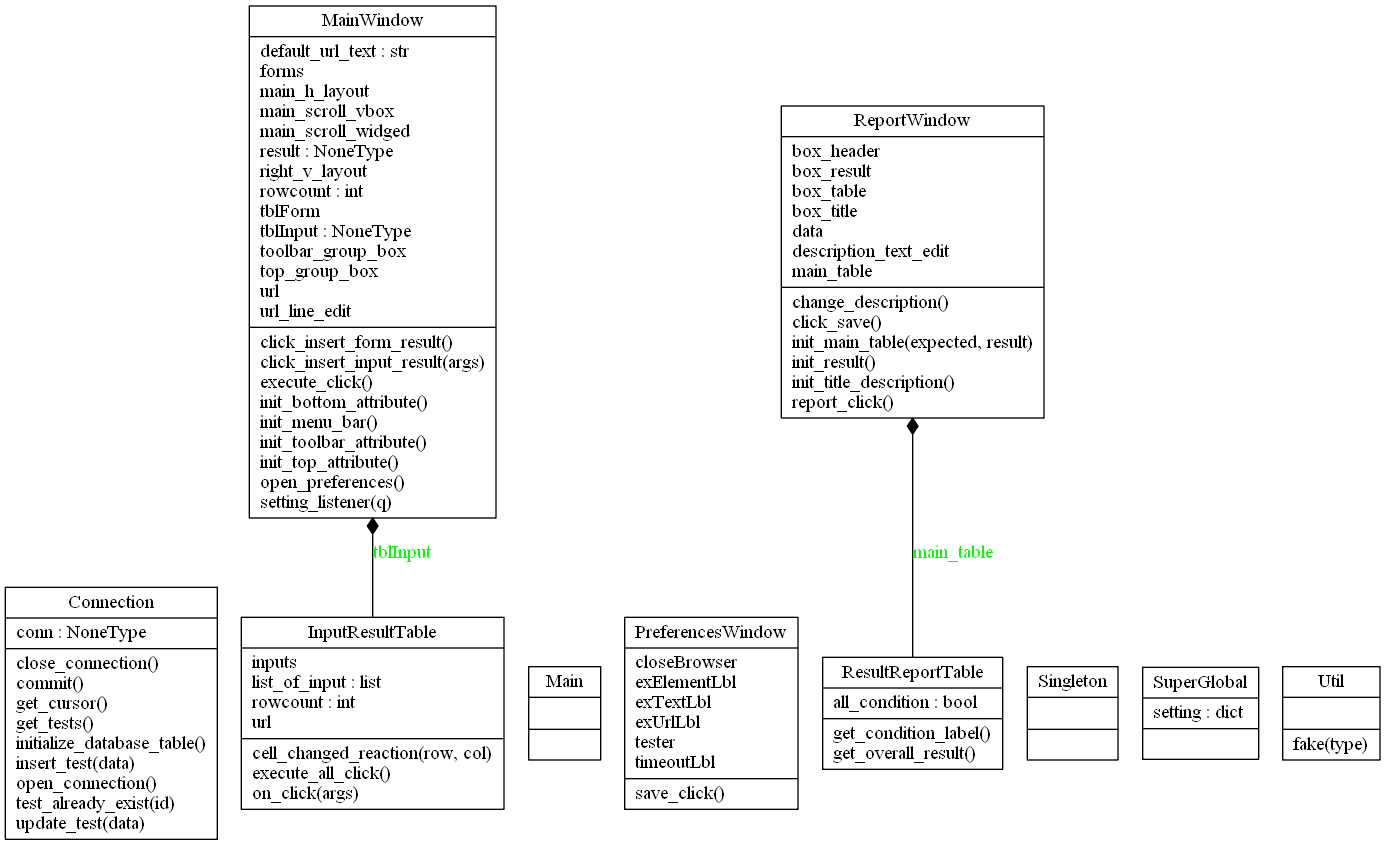
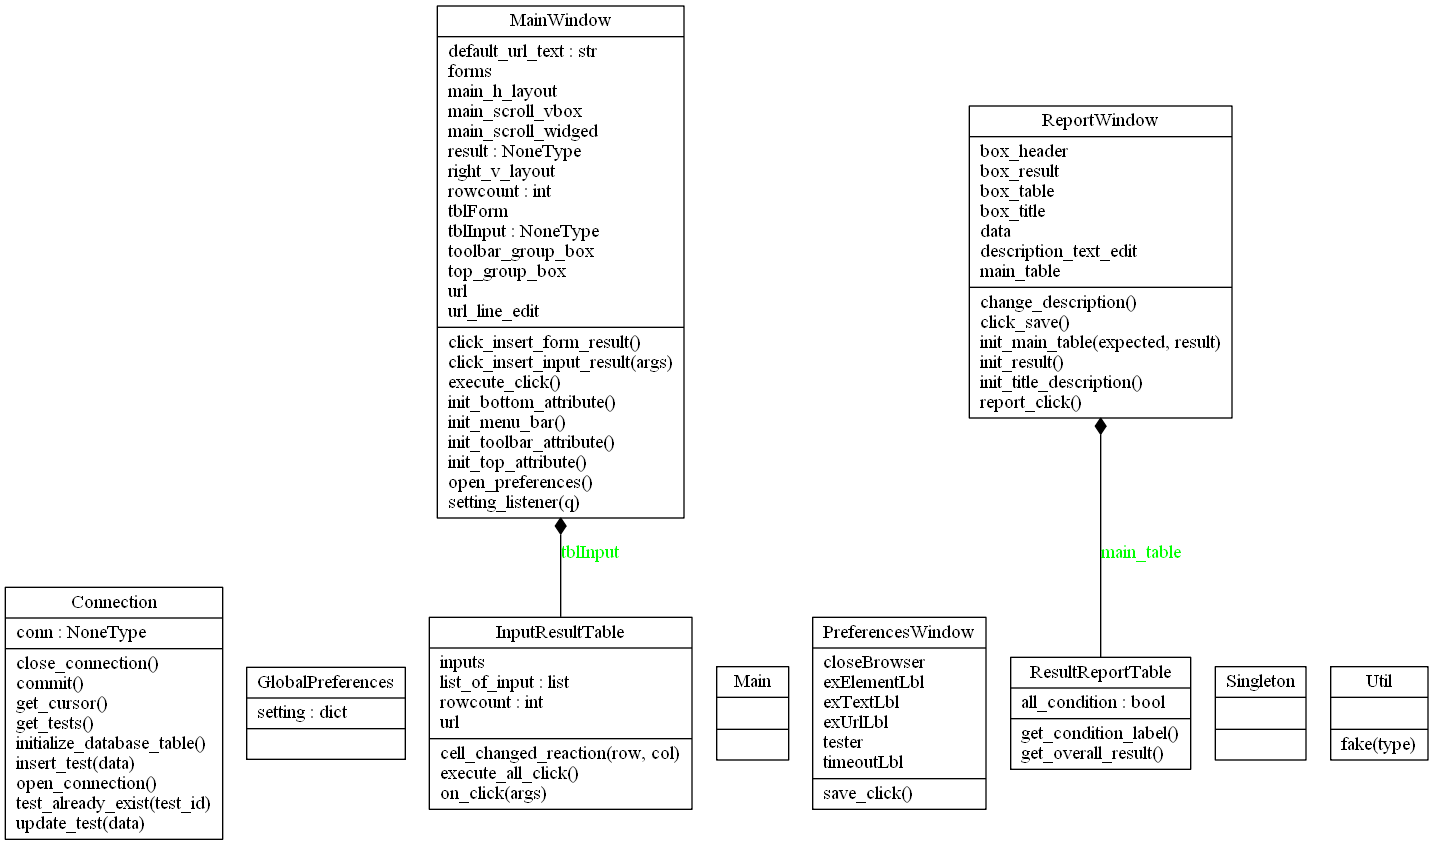
browser reopen if already closed when test executed again

diff --git a/output/output.html b/output/output.html
@@ -65,7 +65,7 @@ center{
     border-collapse: collapse;
 }
 
-.border-table tr,.border-table th{
+.border-table tr{
     padding: 5px 0;
 }
 
@@ -115,11 +115,11 @@ center{
     <table>
         <tr>
             <td>TEST ID</td>
-            <td>1b25cee0-3d12-4f32-9488-b8001738be4d</td>
+            <td>f7b6c89f-789f-4591-a475-d3d9eed13efc</td>
         </tr>
         <tr>
             <td>DATE</td>
-            <td>08-Jan-2020 17:40:24</td>
+            <td>15-Jan-2020 17:30:24</td>
         </tr>
         <tr>
             <td>TEST NAME</td>

diff --git a/general/connection.py b/general/connection.py
@@ -1,7 +1,8 @@
 import sqlite3
+from typing import List, Dict, Union, Any
 
-from meta.meta import Singleton
-from util.util import to_bool
+from meta.singleton import Singleton
+from general.util import to_bool
 
 
 class Connection(metaclass=Singleton):
@@ -46,14 +47,14 @@ class Connection(metaclass=Singleton):
 
         self.close_connection()
 
-    def test_already_exist(self, id):
+    def test_already_exist(self, test_id) -> bool:
         sql = """
             SELECT * FROM tests WHERE id = ?
         """
         self.open_connection()
         cursor = self.get_cursor()
 
-        tuple_data = (id,)
+        tuple_data = (test_id,)
         res = cursor.execute(sql, tuple_data)
         row = res.fetchone()
         self.close_connection()
@@ -103,7 +104,7 @@ class Connection(metaclass=Singleton):
         cursor.close()
         self.close_connection()
 
-    def get_tests(self):
+    def get_tests(self) -> List[Dict[str, Union[Dict[str, Any], Any]]]:
         sql = """
             SELECT * FROM tests
         """

diff --git a/components/input_result_table.py b/components/input_result_table.py
@@ -6,7 +6,7 @@ from selenium.common.exceptions import TimeoutException
 from selenium.webdriver.support.wait import WebDriverWait
 
 from scraper.scraper import find_all_input, find_all_button, find_all_textarea, getheader
-from util.util import get_today, get_uuid
+from general.util import get_today, get_uuid
 
 
 class InputResultTable(QTableWidget):
@@ -15,7 +15,7 @@ class InputResultTable(QTableWidget):
         description = ""
 
         from scraper import scraper
-        from util.globalpreferences import GlobalPreferences
+        from general.globalpreferences import GlobalPreferences
 
         scraper.browser = scraper.dive_plus(self.url, self.list_of_input)
 

diff --git a/scraper/scraper.py b/scraper/scraper.py
@@ -129,6 +129,15 @@ def dive_plus(url, listofinputed):
     browsers = get_browser()
     if browsers == None:
         browsers = webdriver.Firefox()
+    else:
+        from selenium.common.exceptions import WebDriverException
+
+        try:
+            browsers.title
+        except WebDriverException:
+            browsers = webdriver.Firefox()
+            print("Reopen Browser")
+
     browsers.get(url)
 
     for inputed in listofinputed:

diff --git a/ui/report_window.py b/ui/report_window.py
@@ -4,8 +4,8 @@ from PyQt5.QtWidgets import QDialog, QHBoxLayout, QVBoxLayout, QLabel, QGroupBox
     QScrollArea, QGridLayout, QTextEdit
 
 from components.result_report_table import ResultReportTable
-from util.connection import Connection
-from util.util import export_to_html, show_message_window
+from general.connection import Connection
+from general.util import export_to_html, show_message_window
 
 
 class ReportWindow(QDialog):

diff --git a/general/util.py b/general/util.py
@@ -4,8 +4,8 @@ import uuid
 
 from PyQt5.QtWidgets import QMessageBox
 
-from meta import meta
-from util.globalpreferences import GlobalPreferences
+from meta import singleton
+from general.globalpreferences import GlobalPreferences
 
 
 def get_uuid():
@@ -103,6 +103,6 @@ def to_bool(i):
     return True
 
 
-class Util(metaclass=meta.Singleton):
+class Util(metaclass=singleton.Singleton):
     def fake(self, type):
         pass

diff --git a/ui/preferences_window.py b/ui/preferences_window.py
@@ -1,8 +1,8 @@
 from PyQt5.QtWidgets import QDialog, QLineEdit, QGridLayout, QLabel, QWidget, QVBoxLayout, QPushButton, QMessageBox, \
     QFormLayout, QCheckBox
 
-from util.globalpreferences import GlobalPreferences
-from util.util import save_setting
+from general.globalpreferences import GlobalPreferences
+from general.util import save_setting
 
 
 def wrap_layout_into_widget(layout):

diff --git a/main.py b/main.py
@@ -3,8 +3,8 @@ import sys
 from PyQt5.QtWidgets import QApplication
 
 from ui.main_window import MainWindow
-from util.connection import Connection
-from util.util import load_setting
+from general.connection import Connection
+from general.util import load_setting
 
 
 class Main:

diff --git a/general/globalpreferences.py b/general/globalpreferences.py
@@ -1,7 +1,7 @@
-from meta import meta
+from meta import singleton
 
 
-class GlobalPreferences(metaclass=meta.Singleton):
+class GlobalPreferences(metaclass=singleton.Singleton):
     setting = {
         "expected": {
             "url_after": "",
